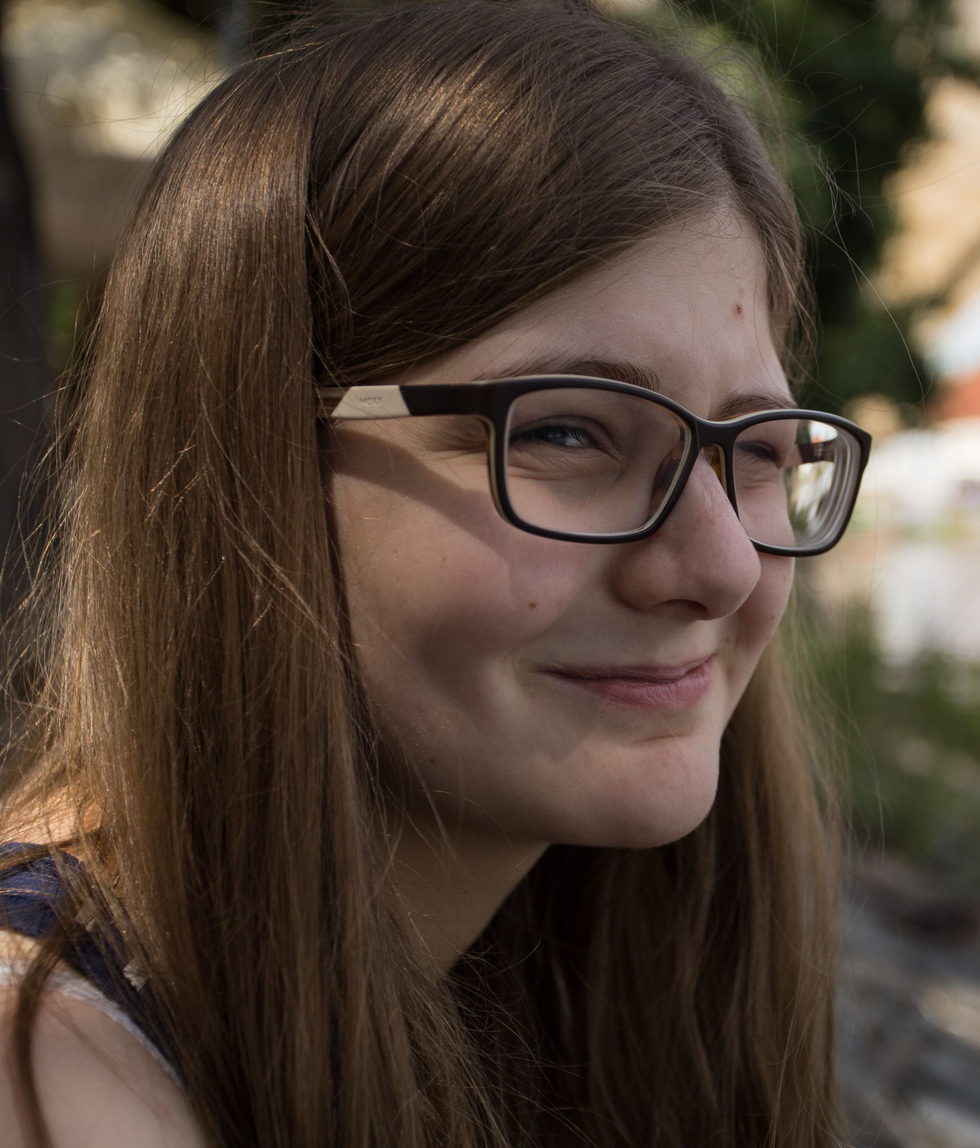
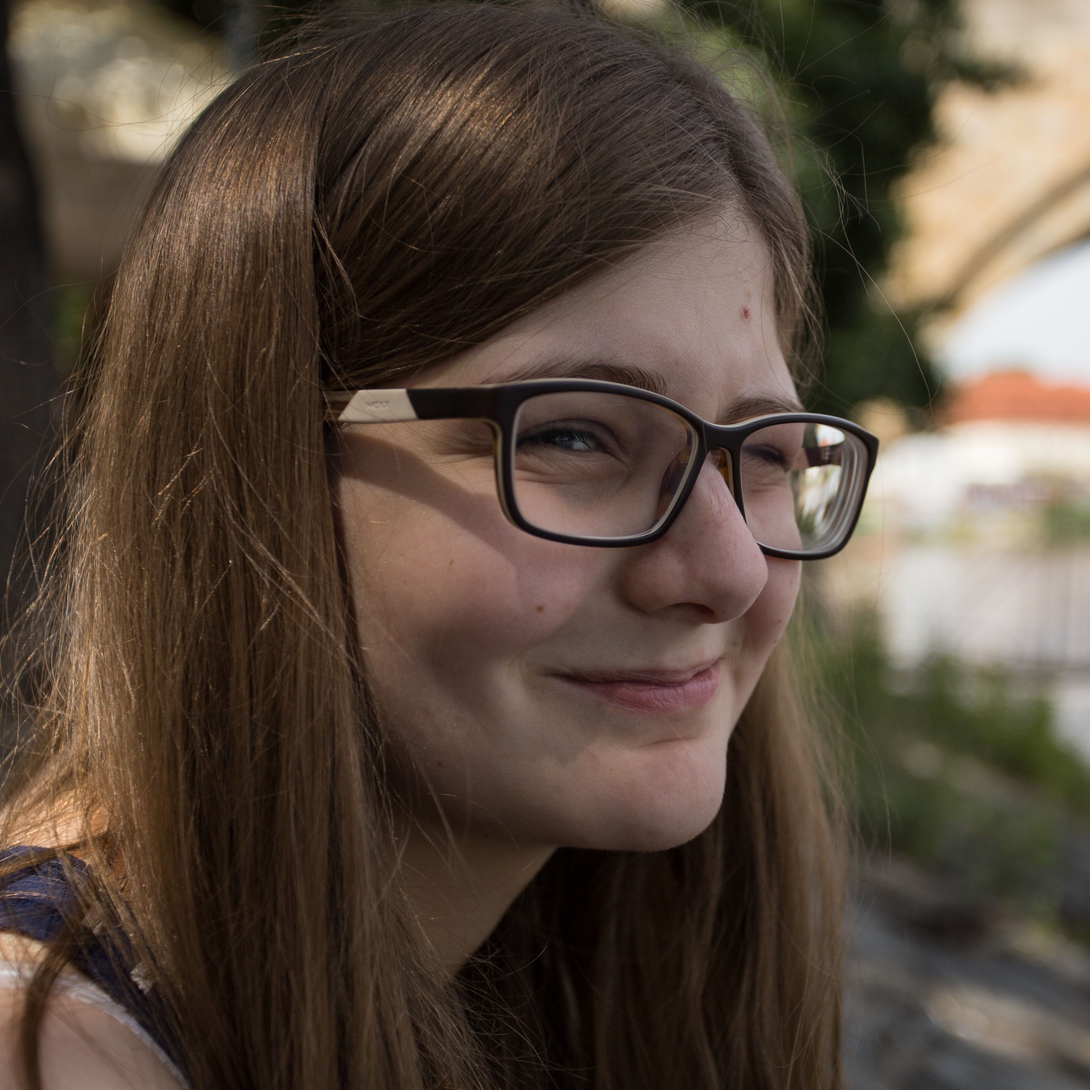
add profile picture

diff --git a/index.html b/index.html
@@ -18,7 +18,7 @@
       <div class="middle">
         <header>
           <a href="index.html" id="name"><h1>Julia Grill</h1></a>
-<!--           <img src="img/moi.jpg" alt="Me" class="profile-photo" class="preloaded-img"> -->
+		  <img src="img/moi.jpg" alt="Me" class="profile-photo" class="preloaded-img">
           <nav>
             <ul class="contact-info">
               <a href="mailto:jusogrill@gmail.com"><button class="button-enlarge"><img class="social-icons" src="img/mail.png" alt="Mail"></button></a>

diff --git a/css/main.css b/css/main.css
@@ -135,6 +135,8 @@ footer {
   margin: 0 auto 20px;
   box-shadow: none;
   border-radius: 50%;
+  border: 3px solid;
+	  
 }
 
 .social-icons {
